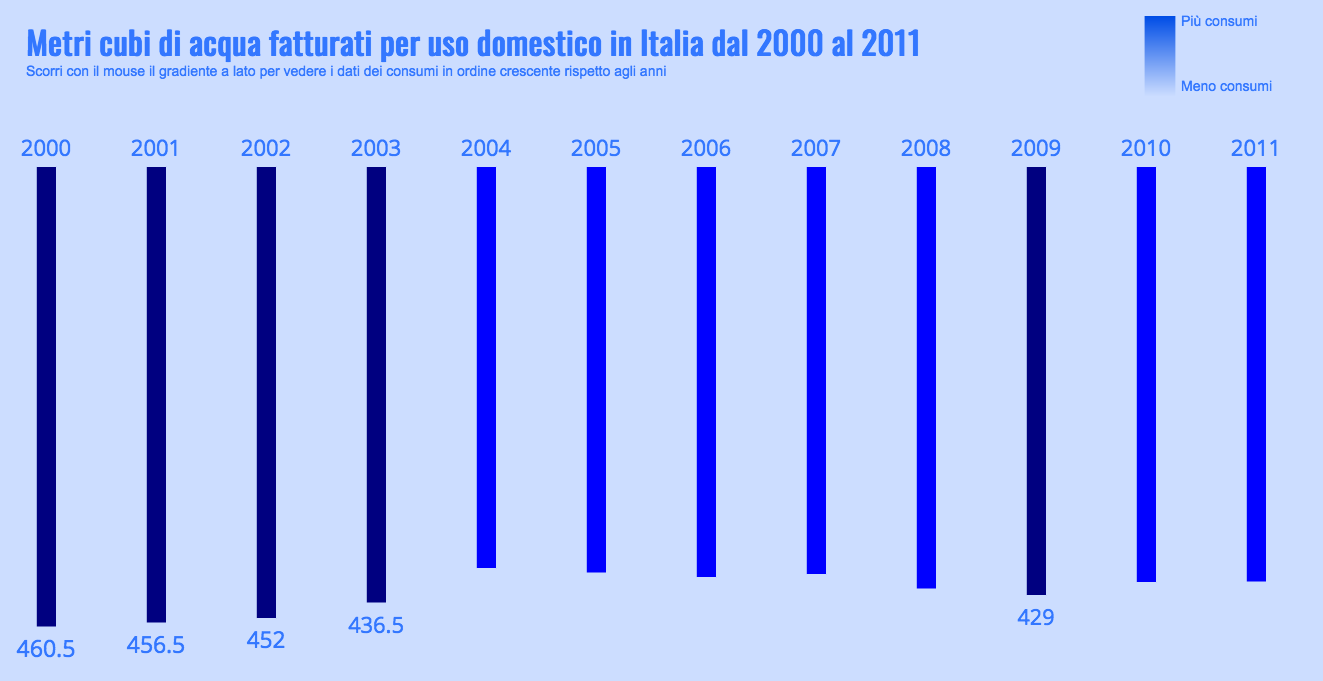
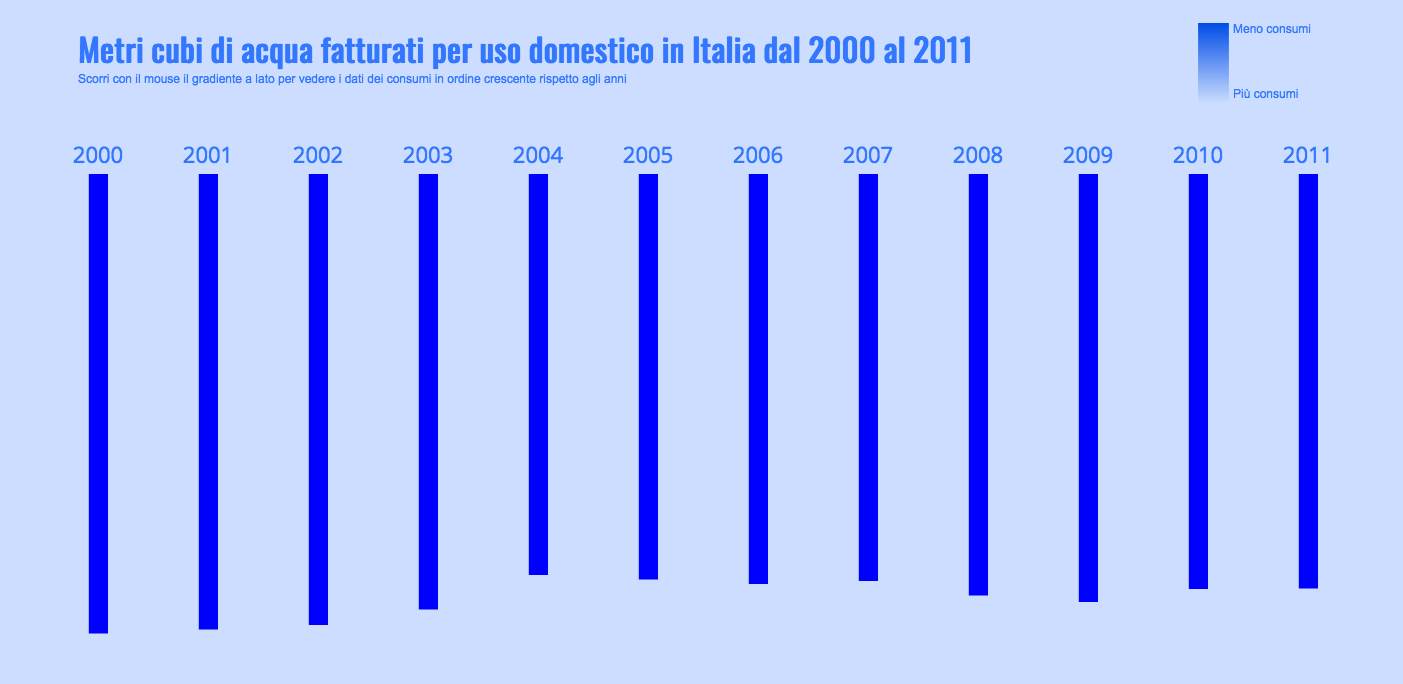
cover

diff --git a/sketch.js b/sketch.js
@@ -55,8 +55,8 @@ function setup() {
     console.log(astro);
   };
 
-  c2 = color(204, 221, 255);
-  c1 = color(0, 77, 230);
+  c1 = color(204, 221, 255);
+  c2 = color(0, 77, 230);
 
 
 }
@@ -76,7 +76,7 @@ function draw() {
     textFont('Oswald');
   text('Metri cubi di acqua fatturati per uso domestico in Italia dal 2000 al 2011', 100, 70);
 
-  textSize(14);
+  textSize(12);
 
 textStyle(NORMAL);
   textFont('Arial');
@@ -86,8 +86,8 @@ textStyle(NORMAL);
     //text('i dati dei consumi', 1020, 70);
     //text('in ordine crescente', 1020, 80);
 
-  text('Più consumi', 1255, 40);
-text('Meno consumi', 1255, 105);
+  text('Meno consumi', 1255, 40);
+text('Più consumi', 1255, 105);
 
 
 
@@ -97,7 +97,7 @@ setGradient(width/2+ 500, ygen-150, 30, 80, c1, c2, Y_AXIS);
 }
 
 
-function setGradient(x, y, w, h, c1, c2, axis) {
+function setGradient(x, y, w, h, c2, c1, axis) {
 
 
 
